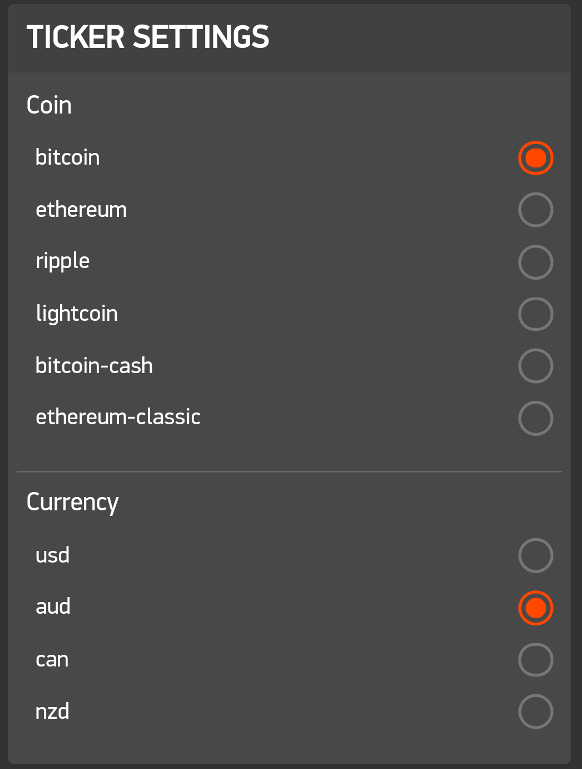
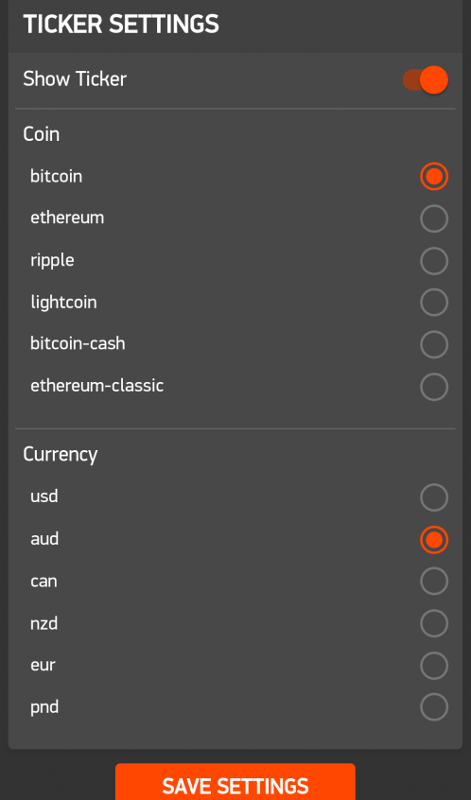
Update Readme

diff --git a/README.md b/README.md
@@ -3,7 +3,7 @@ Pebble Watch Face
 
 - Added cryptocurrency ticker
  - BTC/ETH/XRP/LTC/ECC/BCH
- - USD/AUD/CAN/NZD
+ - USD/AUD/CAN/NZD/EUR/PND
 
 ![Alt text](screenshots/analog-btc.png?raw=true "Watch")
 
